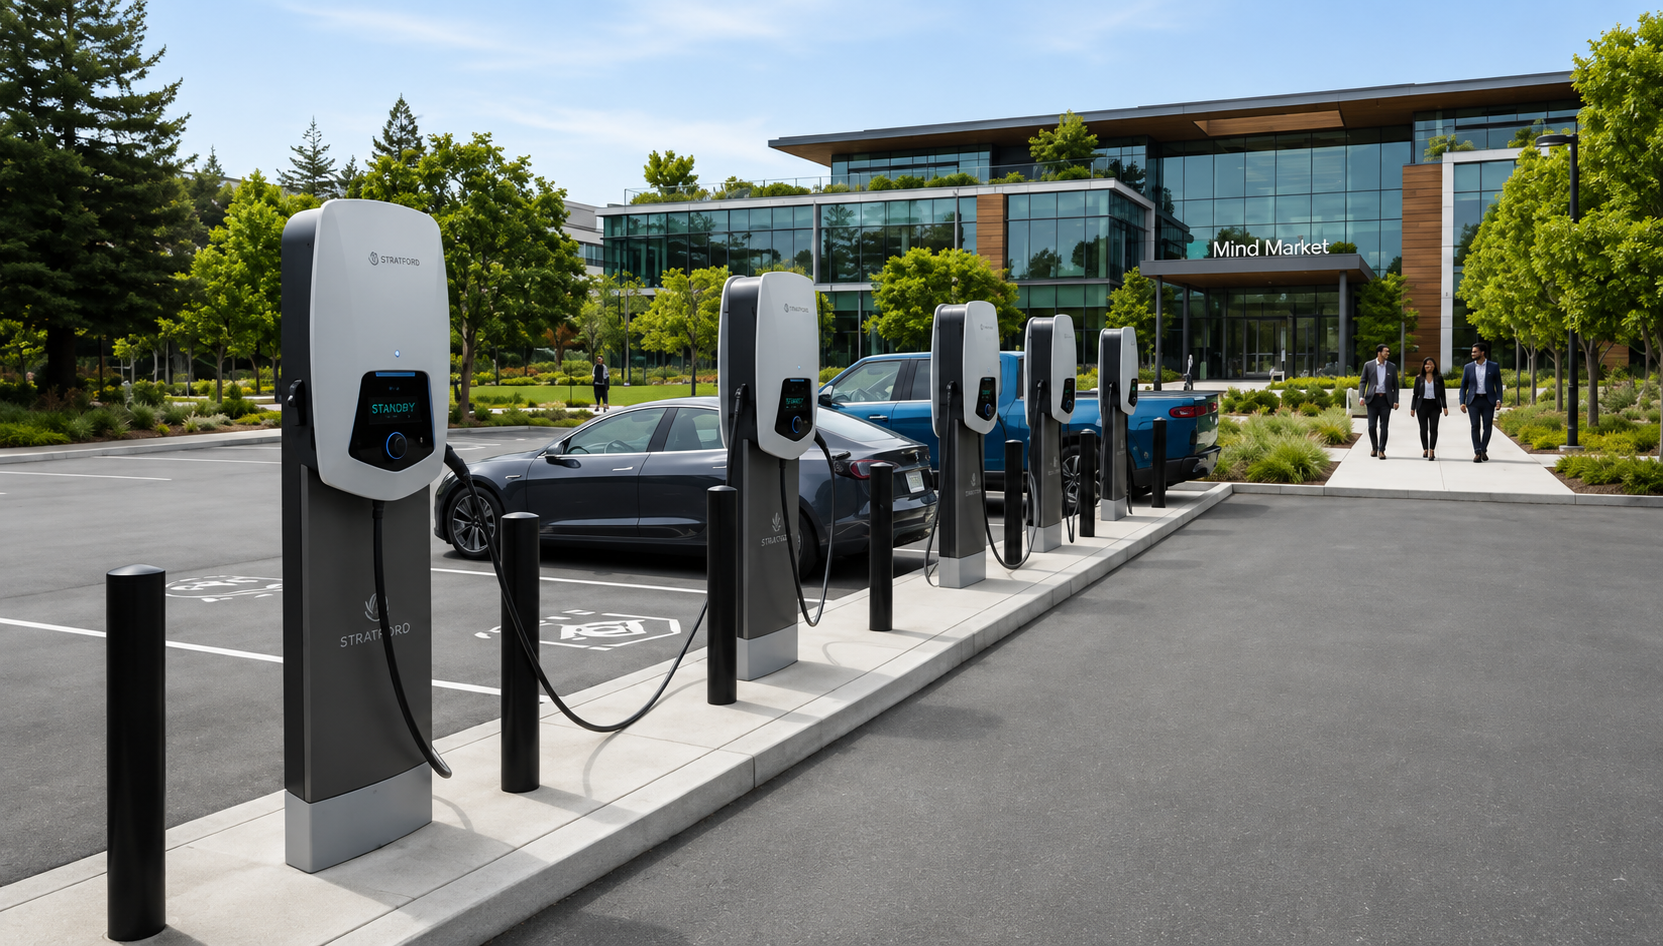
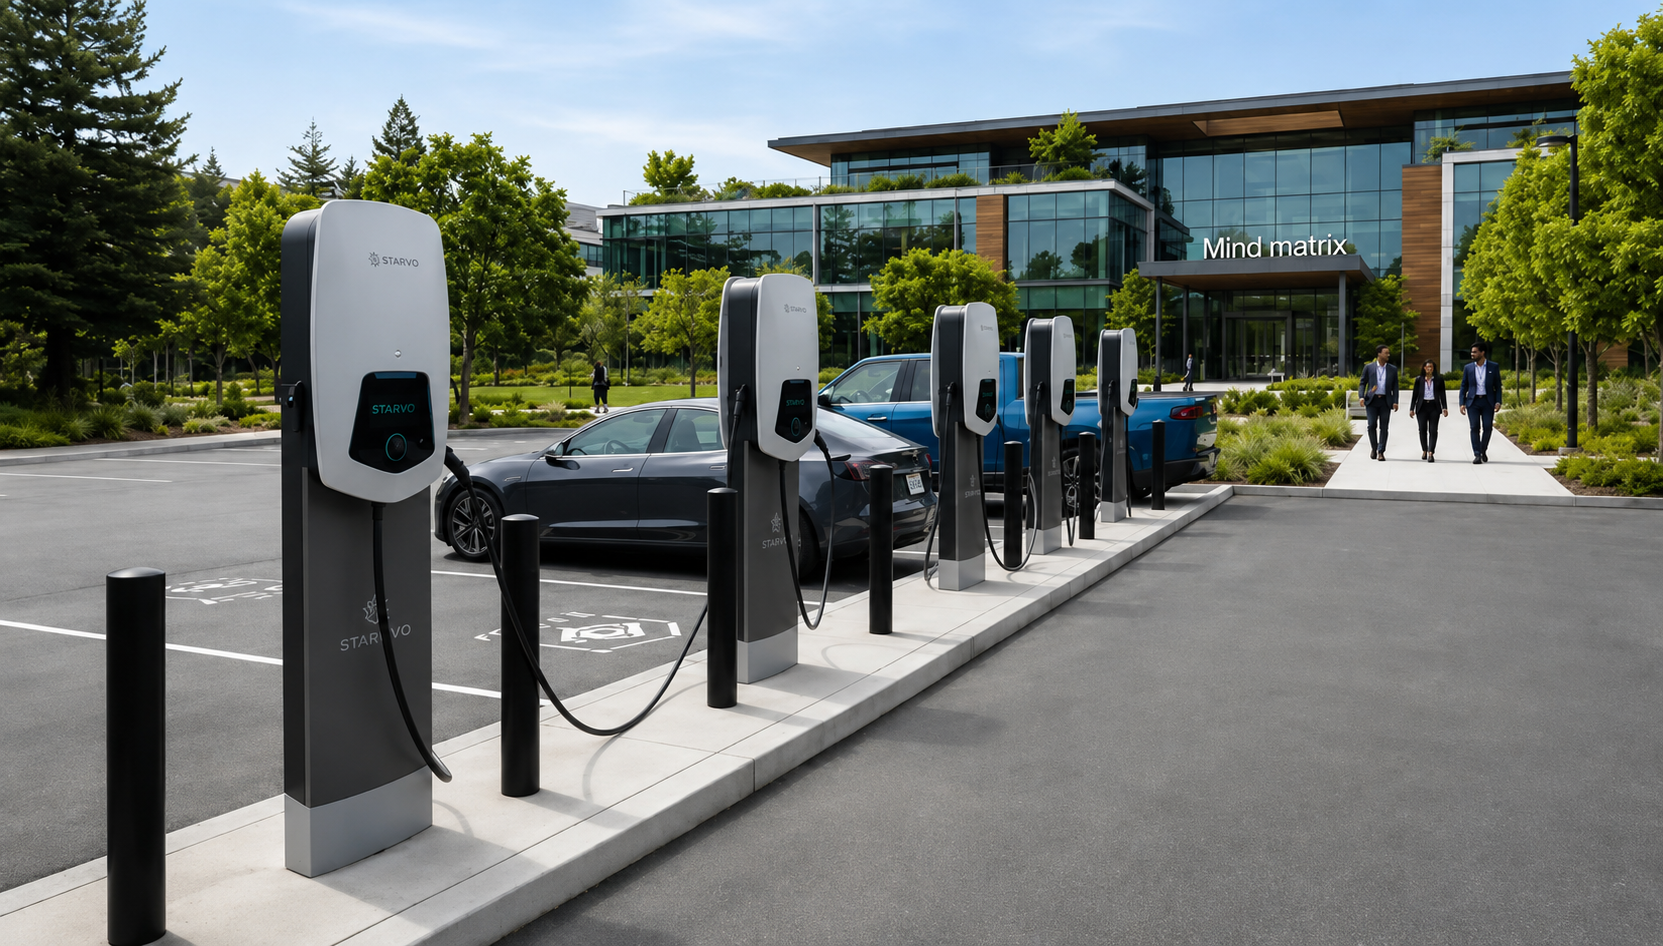
Update hero section in StatsGrid: refactor headline rendering for better text wrapping, add headlineLines for improved layout, and modify global styles for text wrapping. Update telecom power image.

diff --git a/src/components/pages/home/sections/StatsGridSection.tsx b/src/components/pages/home/sections/StatsGridSection.tsx
@@ -15,15 +15,17 @@ export function StatsGridSection() {
         }}
       />
       <div className="relative z-10 w-full max-w-container-max mx-auto px-margin-mobile md:px-margin-desktop py-stack-lg">
-        <div className="max-w-4xl min-w-0 space-y-stack-md">
-          <div className="inline-flex max-w-full items-center gap-2 px-3 py-1 bg-primary/10 border border-primary/20 rounded-full">
-            <span className="w-2 h-2 rounded-full bg-primary animate-pulse shrink-0" />
-            <span className="font-label-sm text-label-sm text-on-primary-container uppercase tracking-widest">
-              {hero.eyebrow}
-            </span>
-          </div>
-          <h1 className="font-display-lg text-display-lg text-white leading-tight break-words">
-            {hero.headline}
+        <div className="flex w-full max-w-4xl min-w-0 flex-col items-start space-y-stack-md">
+          <p className="font-label-sm text-label-sm text-on-primary-container uppercase tracking-widest">
+            {hero.eyebrow}
+          </p>
+          <h1 className="w-full text-left font-display-lg text-display-lg text-white leading-tight [text-wrap:wrap]">
+            {hero.headlineLines.map((line, index) => (
+              <span key={line}>
+                {index > 0 ? <br /> : null}
+                {line}
+              </span>
+            ))}
           </h1>
           <p className="font-body-lg text-body-lg text-on-primary-container/80 max-w-2xl">
             {hero.subheading}

diff --git a/src/config/site-content.ts b/src/config/site-content.ts
@@ -19,6 +19,10 @@ export const siteContent = {
   hero: {
     eyebrow: "Embedded Product Engineering",
     headline: "Embedded Product Engineering for Industrial and Power-Electronics Applications",
+    headlineLines: [
+      "Embedded Product Engineering for",
+      "Industrial and Power-Electronics Applications",
+    ],
     subheading:
       "Mind Matrix Intelligent Solutions provides custom embedded hardware, firmware and communication-system development — from requirements and system architecture through prototype validation and production support.",
     technologyLine:

diff --git a/src/app/globals.css b/src/app/globals.css
@@ -26,6 +26,7 @@
   h6,
   p {
     overflow-wrap: break-word;
+    text-wrap: wrap;
   }
 
   .grid > * {
